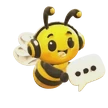
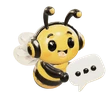
Buzz bee: sharper and brighter. Stills rebuilt from 1296 px renders of the HQ bee, canvas drawn at up to 3x, brighter exposure and fill

diff --git a/buzz-bee3d.js b/buzz-bee3d.js
@@ -21,21 +21,21 @@ const CLAY_TEXTURE = '/buzz-bee-clay.webp?v=3';       // the original model's co
 export const BEE_LOOK = {
   render: {
     toneMapping: 'ACESFilmic',              // 'ACESFilmic' | 'AgX' | 'Neutral' | 'None'
-    exposure: 0.92,                         // ACES darkens and shifts colour a little: this, the light, and each material's mapGlow keep the bee's colours as they were
+    exposure: 1.04,                         // ACES darkens and shifts colour a little: this, the light, and each material's mapGlow keep the bee's colours as they were
     environment: 'studio',                  // the soft studio room that ships with three.js (RoomEnvironment), blurred like a studio HDRI
     environmentBlur: 0.04,
     environmentIntensity: 0.5,
     anisotropy: 'max',                      // 'max' or a number: keeps the texture sharp when the bee turns
     keyLight: {color: 0xfff1d6, intensity: 1.0, position: [1.6, 2.4, 2.6]},
     rimLight: {color: 0xffe3a8, intensity: 0.45, position: [-2.2, 1.2, -2]},
-    fill: {sky: 0xfffaf0, ground: 0xffdca0, intensity: 0.55},
+    fill: {sky: 0xfffaf0, ground: 0xffdca0, intensity: 0.68},
     normalScale: 0.6,
   },
   fallback: {roughness: 0.78, clearcoat: 0, sheen: 0.6, transmission: 0},     // the matte clay look used only if bee_hq.glb cannot load and the original model is shown
   materials: {
     body: {                                  // head, headphones, body, arms, stripes, antennae
       roughness: 0.35, metalness: 0, clearcoat: 1, clearcoatRoughness: 0.22,
-      sheen: 0.12, sheenRoughness: 0.5, sheenColor: 0xffc23a, envMapIntensity: 1.0, mapGlow: 0.2,
+      sheen: 0.12, sheenRoughness: 0.5, sheenColor: 0xffc23a, envMapIntensity: 1.0, mapGlow: 0.3,
     },
     eyes: {                                  // glossy black with crisp white highlights
       roughness: 0.12, metalness: 0, clearcoat: 1, clearcoatRoughness: 0.03,
@@ -66,9 +66,9 @@ const FLOAT_RATE = (2 * Math.PI) / 3;  // one slow float up and down every 3 sec
 // shadow under it can squash and fade in time), and, only when making the still pictures: exact (the canvas IS the bee's box), pixelRatio
 // and scale (make the bee a little smaller so no pose touches the edge of its picture).
 export async function createBee(canvas, {reducedMotion = false, exact = false, pixelRatio = null, onFrame = null, scale = 1} = {}) {
-  const renderer = new THREE.WebGLRenderer({canvas, alpha: true, antialias: true, powerPreference: 'low-power'});
+  const renderer = new THREE.WebGLRenderer({canvas, alpha: true, antialias: true, powerPreference: 'default'});
   renderer.setClearColor(0x000000, 0);
-  renderer.setPixelRatio(pixelRatio || Math.min(window.devicePixelRatio || 1, 2));
+  renderer.setPixelRatio(pixelRatio || Math.min(Math.max((window.devicePixelRatio || 1) * 1.5, 2), 3));   // drawn 1.5x bigger than the screen needs, then shrunk by the browser: smooth, sharp edges
   renderer.toneMapping = TONE_MAPPING[BEE_LOOK.render.toneMapping] ?? THREE.NoToneMapping;
   renderer.toneMappingExposure = BEE_LOOK.render.exposure;
   renderer.outputColorSpace = THREE.SRGBColorSpace;

diff --git a/buzz-chat.js b/buzz-chat.js
@@ -236,8 +236,8 @@
 
   const root = el('div', {className: 'buzz-root'});
   // The still bee pictures (idle, wave, typing): one transparent picture per pose, each made at 108, 216 and 324 px (1x, 2x, 3x), all the same canvas.
-  const picture = (kind, className, size) => el('img', {className, alt: '', width: size, height: size, decoding: 'async', src: `/buzz-bee-${kind}-1x.webp?v=3`,
-    srcset: `/buzz-bee-${kind}-1x.webp?v=3 1x, /buzz-bee-${kind}-2x.webp?v=3 2x, /buzz-bee-${kind}-3x.webp?v=3 3x`});
+  const picture = (kind, className, size) => el('img', {className, alt: '', width: size, height: size, decoding: 'async', src: `/buzz-bee-${kind}-1x.webp?v=4`,
+    srcset: `/buzz-bee-${kind}-1x.webp?v=4 1x, /buzz-bee-${kind}-2x.webp?v=4 2x, /buzz-bee-${kind}-3x.webp?v=4 3x`});
   const canvas = el('canvas', {className: 'buzz-canvas', 'aria-hidden': 'true'});
   const fab = el('button', {type: 'button', className: 'buzz-fab', 'aria-label': 'Chat with Buzz, PrintBee support', 'aria-haspopup': 'dialog', 'aria-expanded': 'false',
     'aria-describedby': 'buzz-tip'},
@@ -515,7 +515,7 @@
     const link = navigator.connection;
     if (link && (link.saveData || /(^|-)2g$/.test(link.effectiveType || ''))) { fab.dataset.state = 'fallback'; introTip(); return; }
     const giveUp = setTimeout(() => { if (fab.dataset.state === 'loading') { fab.dataset.state = 'fallback'; introTip(); } }, 7000);
-    import('/buzz-bee3d.js?v=12')
+    import('/buzz-bee3d.js?v=13')
       .then(module => module.createBee(canvas, {reducedMotion: REDUCED, scale: 0.86, onFrame: lift => fab.style.setProperty('--lift', lift.toFixed(3))}))
       .then(created => {
         clearTimeout(giveUp);

diff --git a/navigation.html b/navigation.html
@@ -19,7 +19,7 @@ if (window.parent === window && matchMedia('(min-width: 701px)').matches) {
 <link rel="stylesheet" href="/hive-theme.css?v=soft-focus">
 <link rel="stylesheet" href="/customer-theme.css?v=how-dark">
 <script src="/hive-theme.js?v=sun-moon"></script>
-<script src="/buzz-chat.js?v=16" defer></script>
+<script src="/buzz-chat.js?v=17" defer></script>
 </head>
 <body class="nav-app customer-theme">
 <main id="tab-screens" class="tab-screens"></main>

diff --git a/orders.html b/orders.html
@@ -23,7 +23,7 @@
 <link rel="stylesheet" href="/customer-theme.css?v=orders-clay">
 <script src="/hive-theme.js?v=sun-moon"></script>
 <script src="/support-bell.js?v=2" defer></script>
-<script src="/buzz-chat.js?v=16" defer></script>
+<script src="/buzz-chat.js?v=17" defer></script>
 </head>
 <body class="customer-theme">
 <a href="#main" class="skip">Skip to content</a>

diff --git a/terms.html b/terms.html
@@ -11,7 +11,7 @@
 <link rel="stylesheet" href="/customer-theme.css?v=how-dark-3">
 <script src="/hive-theme.js?v=sun-moon"></script>
 <script src="/support-bell.js?v=2" defer></script>
-<script src="/buzz-chat.js?v=16" defer></script>
+<script src="/buzz-chat.js?v=17" defer></script>
 </head>
 <body class="customer-theme">
 <a href="#main" class="skip">Skip to content</a>

diff --git a/address.html b/address.html
@@ -21,7 +21,7 @@
 <link rel="stylesheet" href="/customer-theme.css?v=how-dark">
 <script src="/hive-theme.js?v=sun-moon"></script>
 <script src="/support-bell.js?v=2" defer></script>
-<script src="/buzz-chat.js?v=16" defer></script>
+<script src="/buzz-chat.js?v=17" defer></script>
 </head>
 <body class="customer-theme">
 <a href="#main" class="skip">Skip to content</a>

diff --git a/cart.html b/cart.html
@@ -24,7 +24,7 @@
 <link rel="stylesheet" href="/customer-theme.css?v=how-dark">
 <script src="/hive-theme.js?v=sun-moon"></script>
 <script src="/support-bell.js?v=2" defer></script>
-<script src="/buzz-chat.js?v=16" defer></script>
+<script src="/buzz-chat.js?v=17" defer></script>
 </head>
 <body class="customer-theme">
 <a href="#main" class="skip">Skip to content</a>

diff --git a/index.html b/index.html
@@ -20,7 +20,7 @@
 <link rel="stylesheet" href="/customer-theme.css?v=how-dark">
 <script src="/hive-theme.js?v=sun-moon"></script>
 <script src="/support-bell.js?v=2" defer></script>
-<script src="/buzz-chat.js?v=16" defer></script>
+<script src="/buzz-chat.js?v=17" defer></script>
 </head>
 <body class="customer-theme">
 <a href="#main" class="skip">Skip to content</a>

diff --git a/pricing.html b/pricing.html
@@ -20,7 +20,7 @@
 <link rel="stylesheet" href="/customer-theme.css?v=how-dark">
 <script src="/hive-theme.js?v=sun-moon"></script>
 <script src="/support-bell.js?v=2" defer></script>
-<script src="/buzz-chat.js?v=16" defer></script>
+<script src="/buzz-chat.js?v=17" defer></script>
 </head>
 <body class="customer-theme">
 <a href="#main" class="skip">Skip to content</a>

diff --git a/profile.html b/profile.html
@@ -21,7 +21,7 @@
 <link rel="stylesheet" href="/customer-theme.css?v=how-dark">
 <script src="/hive-theme.js?v=sun-moon"></script>
 <script src="/support-bell.js?v=2" defer></script>
-<script src="/buzz-chat.js?v=16" defer></script>
+<script src="/buzz-chat.js?v=17" defer></script>
 </head>
 <body class="customer-theme">
 <a href="#main" class="skip">Skip to content</a>

diff --git a/queue.html b/queue.html
@@ -24,7 +24,7 @@
 <link rel="stylesheet" href="/customer-theme.css?v=how-dark">
 <script src="/hive-theme.js?v=sun-moon"></script>
 <script src="/support-bell.js?v=2" defer></script>
-<script src="/buzz-chat.js?v=16" defer></script>
+<script src="/buzz-chat.js?v=17" defer></script>
 </head>
 <body class="customer-theme">
 <a href="#main" class="skip">Skip to content</a>

diff --git a/help.html b/help.html
@@ -18,7 +18,7 @@
 <script src="/hive-theme.js?v=sun-moon"></script>
 <script src="/help.js?v=2" defer></script>
 <script src="/support-bell.js?v=2" defer></script>
-<script src="/buzz-chat.js?v=16" defer></script>
+<script src="/buzz-chat.js?v=17" defer></script>
 </head>
 <body class="customer-theme help-body">
 <a href="#help-app" class="skip">Skip to content</a>
